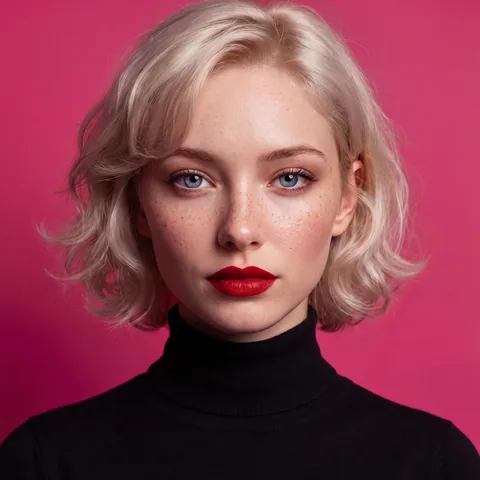
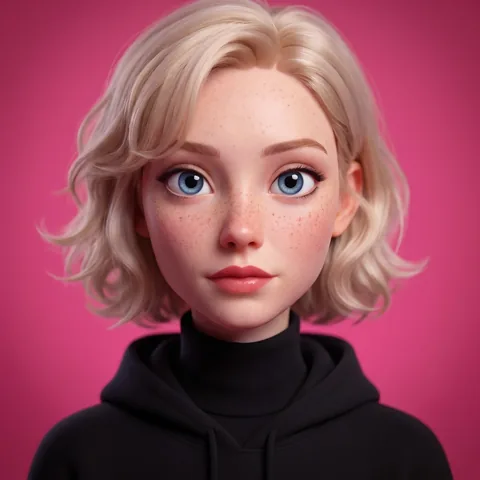
Agents: new portrait for Lily

diff --git a/index.html b/index.html
@@ -882,7 +882,7 @@ main > section { scroll-margin-top: 0; }
           </div>
           <span class="crew-link" aria-hidden="true"></span>
           <ul class="crew-agents">
-            <li><div class="crew-agent"><img class="od-media" src="assets/agents/lily.webp" alt="Lily’s avatar: a blonde woman in a black turtleneck on a pink background" width="480" height="480" loading="lazy"><span class="crew-name">Lily</span><span class="mono-label">Agent 01</span></div></li>
+            <li><div class="crew-agent"><img class="od-media" src="assets/agents/lily.webp" alt="Lily’s avatar: a cartoon woman with a blonde bob in a black hoodie on a pink background" width="480" height="480" loading="lazy"><span class="crew-name">Lily</span><span class="mono-label">Agent 01</span></div></li>
             <li><div class="crew-agent"><img class="od-media" src="assets/agents/anna.webp" alt="Anna’s avatar: a cartoon woman with a dark bob in a green jumper on a blue background" width="480" height="480" loading="lazy"><span class="crew-name">Anna</span><span class="mono-label">Agent 02</span></div></li>
             <li><div class="crew-agent"><img class="od-media" src="assets/agents/yaga.webp" alt="Yaga’s avatar: a cartoon old woman with red curls and round glasses in a black hoodie on a green background" width="480" height="480" loading="lazy"><span class="crew-name">Yaga</span><span class="mono-label">Agent 03</span></div></li>
           </ul>
